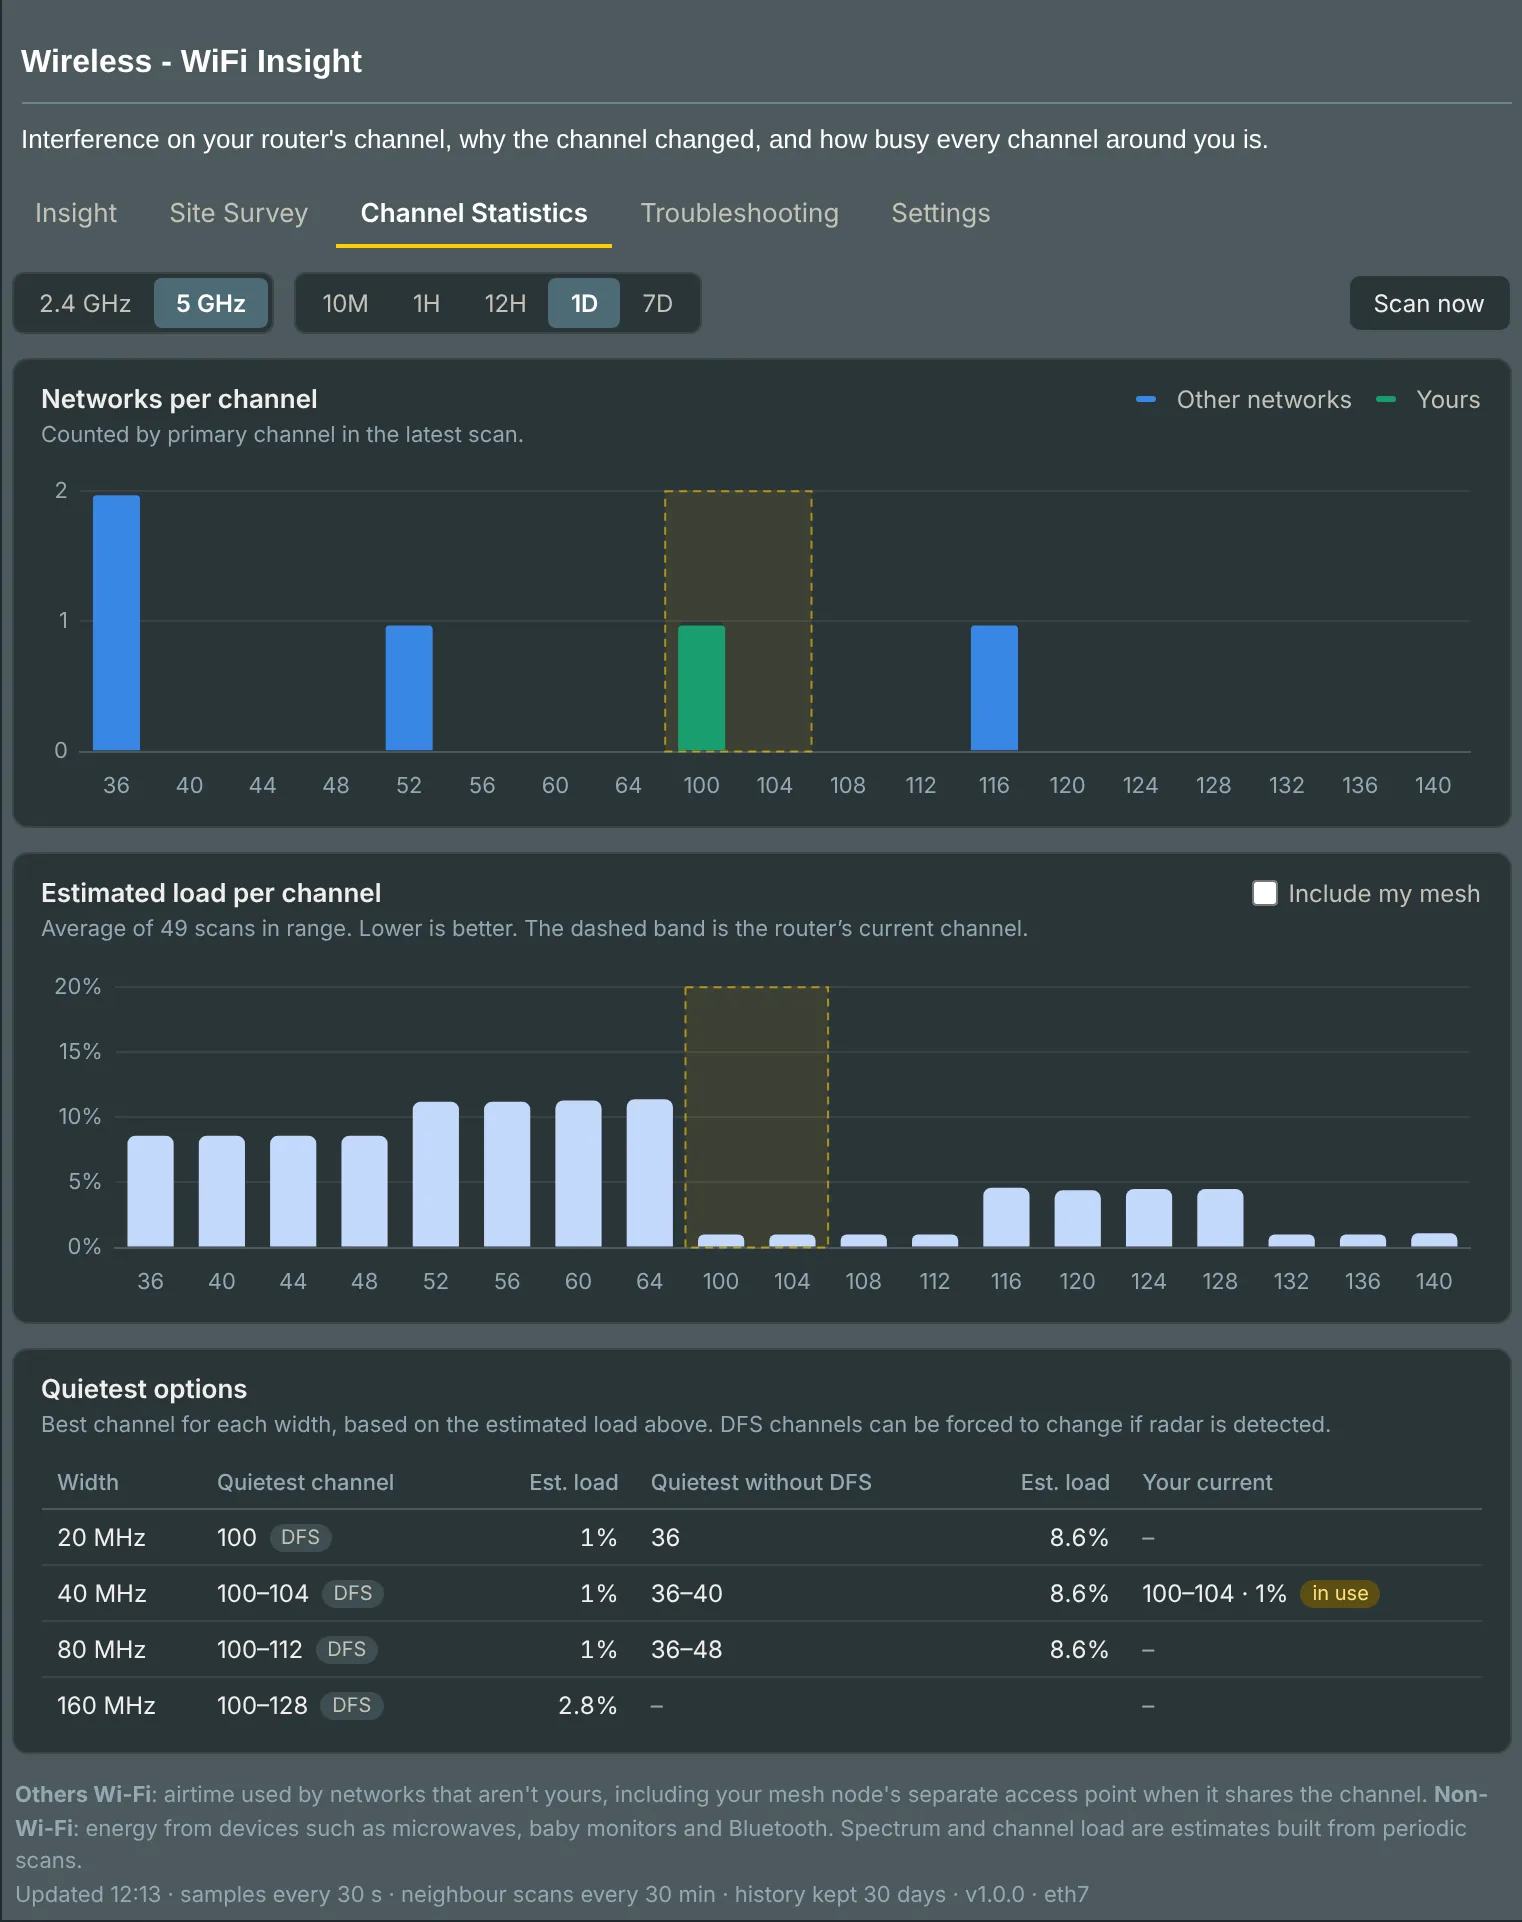
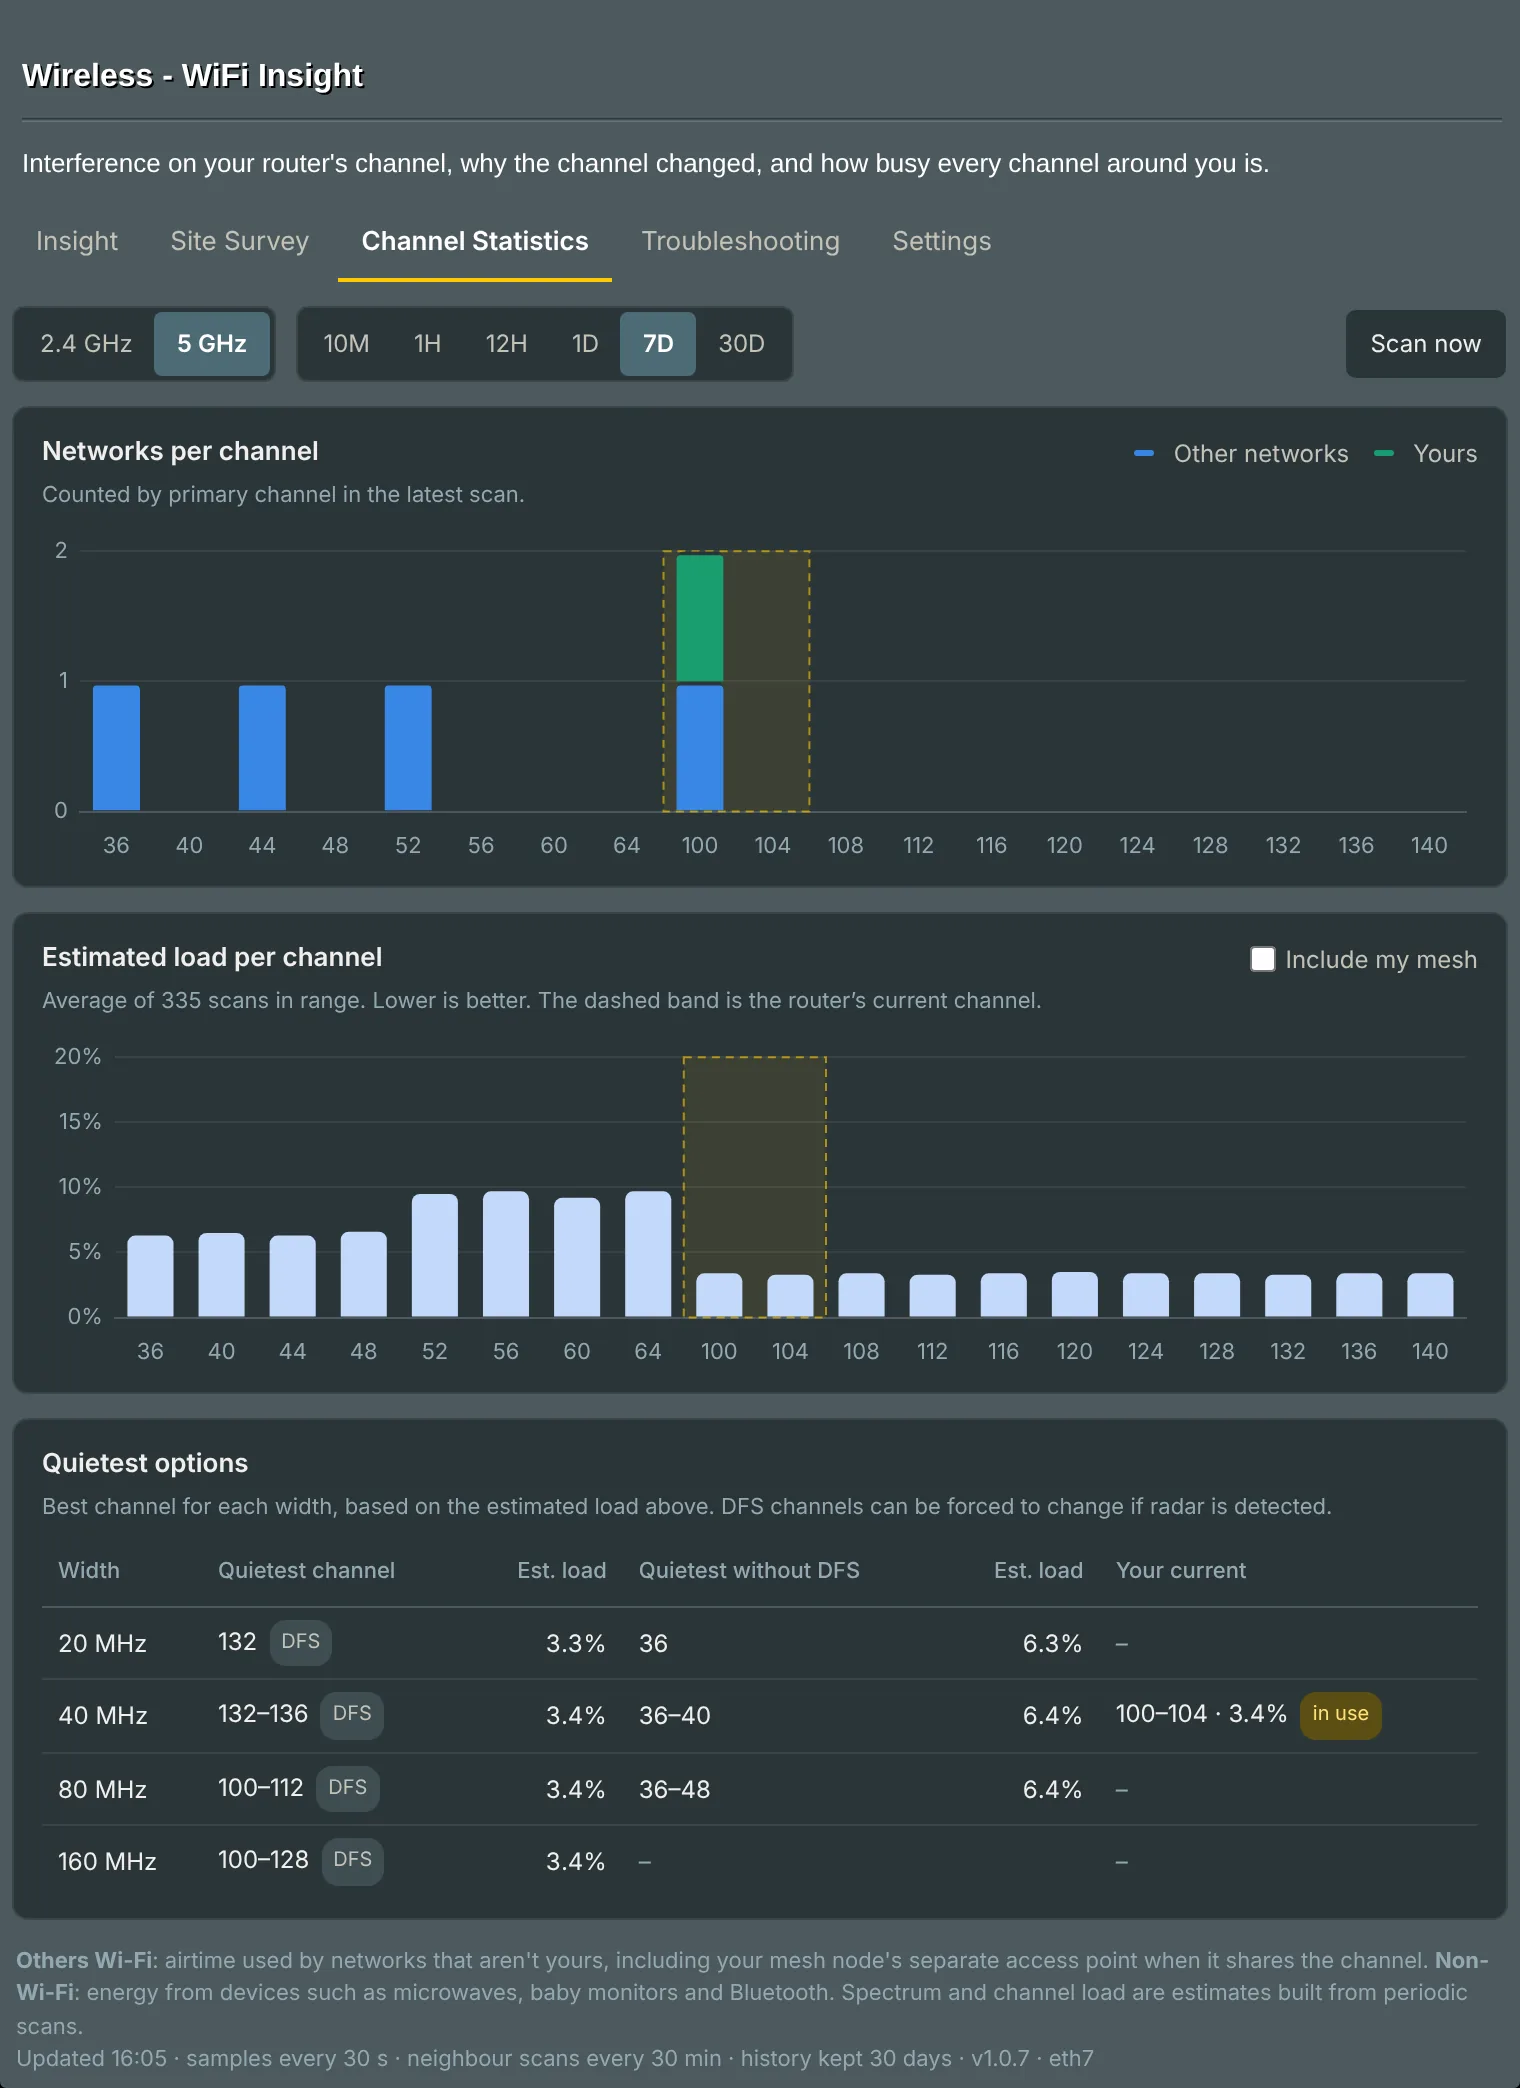
1.0.7: readable long ranges, new 30D range, refreshed screenshots
- 12H/1D/7D/30D plot local-time bucket averages (5 min, 10 min, 1 h,
  4 h; ~150 points) instead of every sample; tooltips name the average.
- New 30D range backed by month.htm: hourly airtime averages and 6-hour
  channel-scan averages, aligned to local time, exported hourly.
- Spectrum heatmap groups rows into 3-hour (7D) and daily (30D) averages;
  channel load averages are weighted by scan count.
- 7D/30D charts omit daily scheduled-reboot markers (kept in the list).
- Airtime breakdown: idle absorbs rounding so each point is exactly 100.0.
- README: 30D screenshot replaces 7D, new demo, files list updated.

Claude-Session: https://claude.ai/code/session_01VjX2v23dnXKWe3vGcpYo2a

Changed region(s): [[0.0, 0.2497, 1.0, 1.0], [0.0, 0.0, 0.9895, 0.3434], [0.2474, 0.3122, 0.2783, 0.3434]]

diff --git a/README.md b/README.md
@@ -12,7 +12,7 @@ It adds a **Wireless → WiFi Insight** tab with five pages:
 | **Troubleshooting** | Airtime breakdown (your TX/RX, others, non-Wi-Fi, unclassified, idle), glitch counters, transmit success vs failure, noise floor and the raw `chanim_stats` counters. |
 | **Settings** | Sample interval, neighbour scan interval, history length, and extra SSIDs to treat as yours. |
 
-Time ranges: 10 minutes, 1 hour, 12 hours, 1 day, 7 days.
+Time ranges: 10 minutes, 1 hour, 12 hours, 1 day, 7 days and 30 days. Short ranges show every sample; longer ones show averages (5 minutes for 12 hours, 10 minutes for a day, an hour for 7 days, 4 hours for 30 days), so trends stay readable.
 
 ## Screenshots
 
@@ -21,7 +21,7 @@ Time ranges: 10 minutes, 1 hour, 12 hours, 1 day, 7 days.
 <table>
 <tr>
 <td width="50%"><a href="docs/insight.webp"><img src="docs/insight.webp" alt="Insight page: live tiles, in-channel interference over a day with event markers, spectrum heatmap and channel events"></a><br><b>Insight</b>: interference on your channel, the spectrum around it, and why the channel changed</td>
-<td width="50%"><a href="docs/insight-7d.webp"><img src="docs/insight-7d.webp" alt="Insight page over 7 days on 2.4 GHz"></a><br><b>Insight, 7 days</b>: a week of history with reboots, radar and manual changes</td>
+<td width="50%"><a href="docs/insight-30d.webp"><img src="docs/insight-30d.webp" alt="Insight page over 30 days on 2.4 GHz: 4-hour averages and a heatmap with one row per day"></a><br><b>Insight, 30 days</b>: a month at a glance, in 4-hour averages with a daily heatmap</td>
 </tr>
 <tr>
 <td><a href="docs/survey.webp"><img src="docs/survey.webp" alt="Site Survey: signal map of neighbouring networks by channel, and a sortable network list"></a><br><b>Site Survey</b>: who's around you and on which channels, with your own networks and mesh node marked</td>
@@ -108,7 +108,7 @@ It only ever removes a page whose `.title` file says `WiFi Insight`, so other ad
 |---|---|
 | `/jffs/addons/wifiinsight/` | script, page, config, local Chart.js |
 | `/opt/var/lib/wifiinsight/wifiinsight.db` | history (SQLite) |
-| `/tmp/var/wwwext/wifiinsight/` | JSON files the page reads (`live.htm`, `scans.htm`, `week.htm`), rebuilt from the database |
+| `/tmp/var/wwwext/wifiinsight/` | JSON files the page reads (`live.htm`, `scans.htm`, `week.htm`, `month.htm`, `scanstate.htm`), rebuilt from the database |
 
 Cron jobs: `wifiinsight_collect` (every minute), `wifiinsight_scan` (scan interval) and `wifiinsight_prune` (04:23 daily, before a 05:00 scheduled reboot).
 
@@ -148,7 +148,7 @@ Storage is about 21 MB for 30 days of 30-second samples on two radios.
 - **JFFS (flash):** about 350 KB of addon files, written at install and when you save settings, never on a schedule. One tagged line is added to each of `/jffs/scripts/services-start` and `service-event`.
 - **Settings:** the only router setting it may change is *JFFS custom scripts and configs*, switched on if it's off.
 - **Wi-Fi:** it only reads the driver's counters, except for the neighbour scan. No wireless setting is ever changed.
-- **RAM only (gone after a reboot, recreated at boot):** the web page, the menu entry, the cron jobs and the JSON data files (about 0.8 MB). The menu is edited on a copy and swapped in only if the result is exactly the one expected line.
+- **RAM only (gone after a reboot, recreated at boot):** the web page, the menu entry, the cron jobs and the JSON data files (about 1 MB). The menu is edited on a copy and swapped in only if the result is exactly the one expected line.
 - **Load:** the per-minute job takes about 0.5 s of CPU on a 2.1 GHz x86 core with 30 days of history (expect a few times that on the router's ARM cores), at the lowest CPU priority (`nice 19`). Each scan takes the radio off-channel briefly; see *How the numbers are made*.
 
 To remove everything: `wifiinsight.sh uninstall`. If the web UI ever looks wrong, a reboot clears all RAM-side changes.

diff --git a/CHANGELOG.md b/CHANGELOG.md
@@ -4,6 +4,11 @@ What changed in each release of WiFi Insight. The release workflow copies a vers
 
 ## 1.0.7
 
+- **Longer ranges are readable.** 12H, 1D and 7D used to plot every 30-second sample, thousands of points, which looked like noise. They now show averages: 5 minutes for 12H, 10 minutes for 1D and an hour for 7D, about 150 points per chart. Tooltips say which average you're looking at. 10M and 1H still show every sample.
+- **New 30D range**, in 4-hour averages. The router keeps an hourly summary of the last 30 days for it, refreshed once an hour.
+- **Spectrum heatmap on 7D and 30D:** rows are grouped into 3-hour (7D) or daily (30D) averages instead of one hairline row per scan, and channel load averages use the same data.
+- On 7D and 30D, the charts leave out the daily scheduled-reboot markers so the lines stay readable. They're still listed under Channel events.
+- Averages follow your local time, so daily rows start at midnight and hourly points sit on the hour.
 - Settings: each dropdown is sized to its text again (1.0.6 made them all one width). The even padding and the new arrow stay.
 - Troubleshooting → Airtime breakdown: click any name in the legend to show or hide it, like the other charts. Hide everything but *Your TX* to see just your transmit time. The chart rescales to what's shown.
 - Airtime breakdown adds up to exactly 100%. The radio measures and rounds each share separately, so they used to total roughly 97–105% and the top edge wobbled. Each sample is now scaled to 100%, and the raw counters table below is unchanged.
